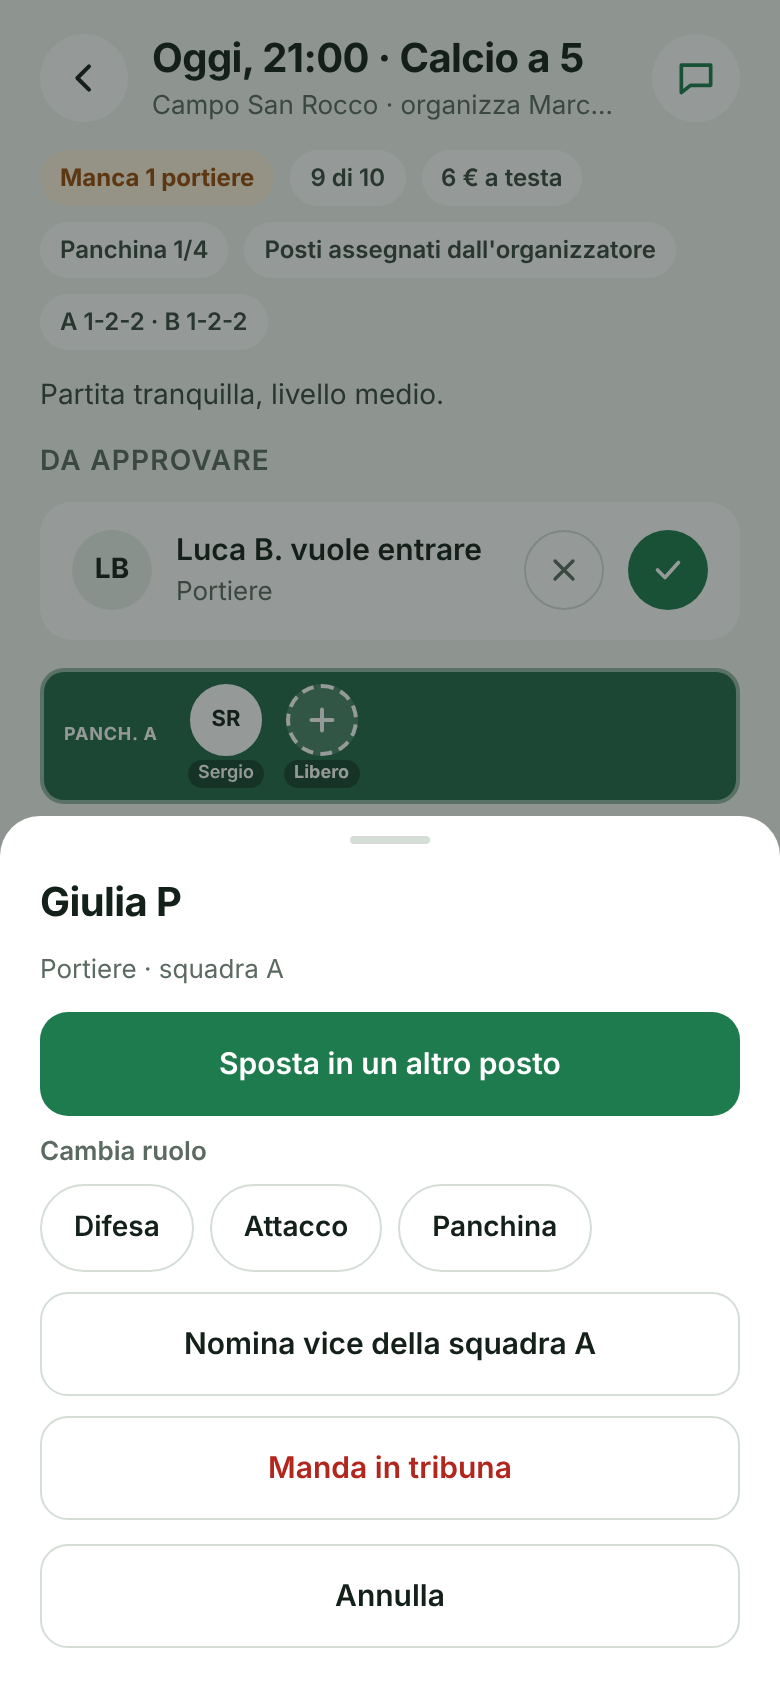
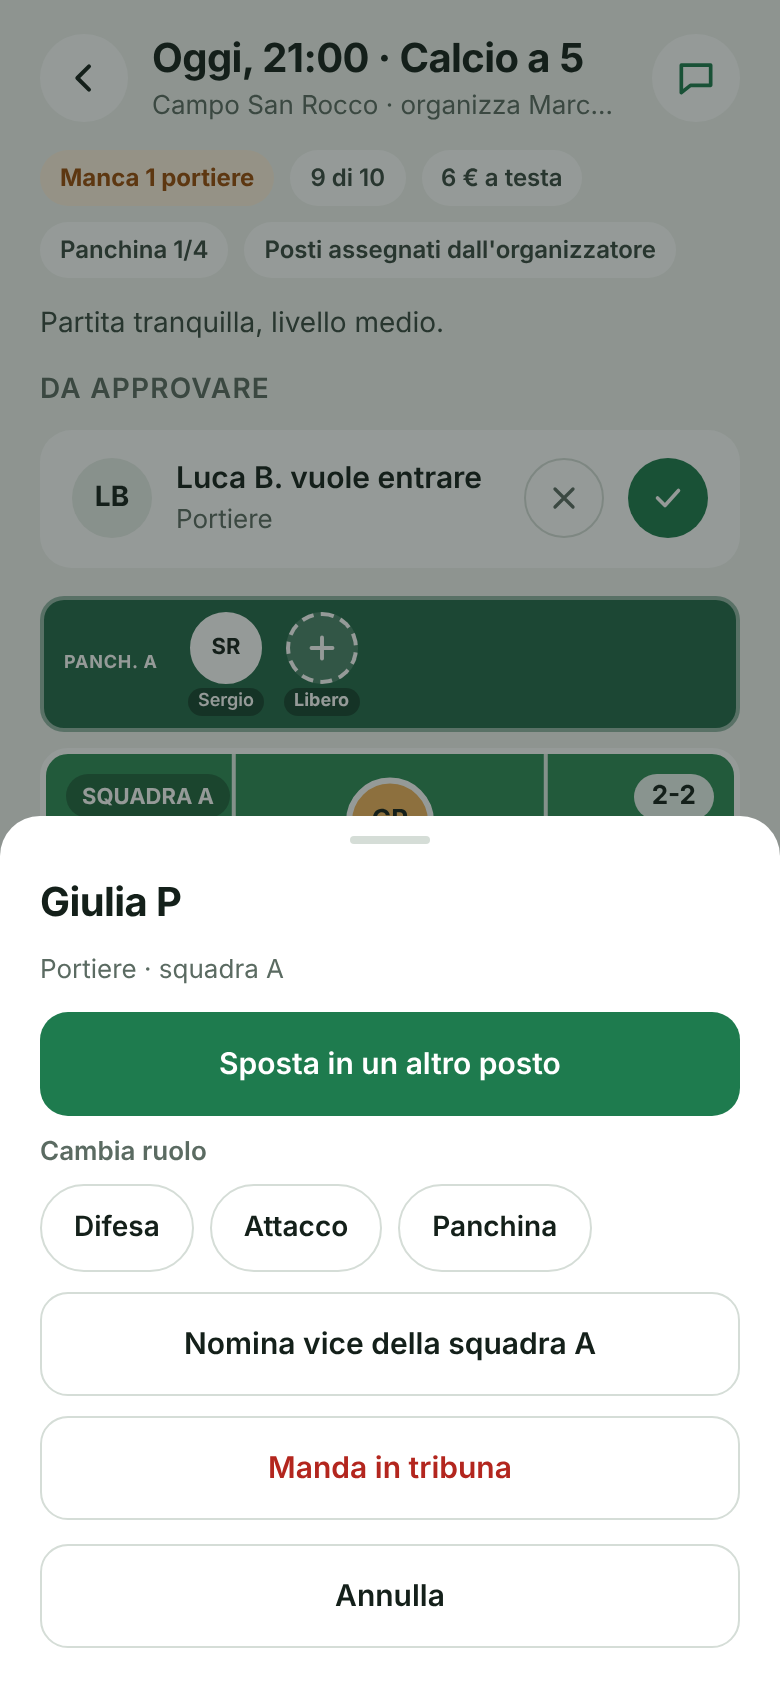
Modulo con tre contatori senza portiere, mostrato sul campo per ogni squadra
Claude-Session: https://claude.ai/code/session_01Djjfb2KNT9qH8Pf34YuUVA

Changed region(s): [[0.0308, 0.1848, 0.9538, 0.4929], [0.4615, 0.1848, 0.5538, 0.2464], [0.7077, 0.2773, 0.7385, 0.3081]]

diff --git a/src/pages/Partita.svelte b/src/pages/Partita.svelte
@@ -5,7 +5,8 @@
   import { auth } from '../lib/auth.svelte.js'
   import { router, indietro, naviga } from '../lib/router.svelte.js'
   import { etichettaDataOra, etichettaFormato, nomeBreve, chipPosti, euro, etichettaRuolo, iniziali, RUOLI } from '../lib/formato.js'
-  import { conta, MODULI, moduloDi } from '../lib/formazione.js'
+  import { conta, contaRuoli, testoModulo, moduloPerDb } from '../lib/formazione.js'
+  import Contatori from '../components/Contatori.svelte'
   import Icona from '../components/Icona.svelte'
   import CampoDisegnato from '../components/CampoDisegnato.svelte'
   import Caricamento from '../components/Caricamento.svelte'
@@ -17,6 +18,8 @@
   let tribuna = $state([])
   let vice = $state([])
   let moduloSquadra = $state('A')
+  let nuovo = $state({ difesa: 0, centro: 0, attacco: 0 })
+  function apriModulo(sq) { moduloSquadra = sq; nuovo = contaRuoli(posizioni, sq); foglio = { tipo: 'modulo' } }
   let inviti = $state([])
   let caricamento = $state(true)
   let errore = $state('')
@@ -138,7 +141,7 @@
   const chiedi = (p, giocatoreId) => esegui('chiedi_di_giocare', { p_posizione: p.id, p_giocatore: giocatoreId }, 'Richiesta inviata: deve accettare.')
   const rispondiInvito = (accetta) => esegui('rispondi_invito', { p_partita: id, p_accetta: accetta }, accetta ? 'Sei in campo!' : 'Resti in tribuna.')
   const sposta = (da, a) => esegui('sposta_giocatore', { p_da: da.id, p_a: a.id }, a.giocatore_id ? 'Posti scambiati.' : 'Giocatore spostato.')
-  const cambiaModulo = (squadra, modulo) => esegui('cambia_modulo', { p_partita: id, p_squadra: squadra, p_modulo: modulo }, `Squadra ${squadra}: modulo ${modulo}.`)
+  const cambiaModulo = (squadra, m) => esegui('cambia_modulo', { p_partita: id, p_squadra: squadra, p_modulo: moduloPerDb(m) }, `Squadra ${squadra}: modulo ${testoModulo(m)}.`)
   const nominaVice = (giocatoreId, squadra, si) => esegui('nomina_vice', { p_partita: id, p_giocatore: giocatoreId, p_squadra: squadra, p_si: si }, si ? `Ora è vice della squadra ${squadra}.` : 'Non è più vice.')
   let copiato = $state(false)
   async function copiaLink() {
@@ -208,7 +211,6 @@
         <span class="chip leggero">{euro(partita.quota)}</span>
         {#if numeri.panchinaTotale}<span class="chip leggero">Panchina {numeri.panchinaTotale - numeri.panchinaLiberi}/{numeri.panchinaTotale}</span>{/if}
         {#if approvazione}<span class="chip leggero">Posti assegnati dall'organizzatore</span>{/if}
-        <span class="chip leggero">A {moduloDi(posizioni, 'A')} · B {moduloDi(posizioni, 'B')}</span>
       </div>
 
       {#if partita.descrizione}
@@ -307,7 +309,7 @@
           <div class="sezione-titolo">{sonoTitolare ? "Sei l'organizzatore" : `Sei vice · squadra ${miaViceSquadra}`}</div>
           <div class="card" style="gap: 8px">
             <div class="sotto">Tocca un posto per cambiarne il ruolo, toglierlo o proporre un cambio a chi lo occupa. Il totale ora è {numeri.totale} posti.</div>
-            <button type="button" class="btn bianco piccolo" onclick={() => { moduloSquadra = sonoTitolare ? 'A' : miaViceSquadra; foglio = { tipo: 'modulo' } }}>Cambia modulo</button>
+            <button type="button" class="btn bianco piccolo" onclick={() => apriModulo(sonoTitolare ? 'A' : miaViceSquadra)}>Cambia modulo</button>
             <button type="button" class="btn bianco piccolo" onclick={() => { ruoloScelto = null; squadraScelta = sonoTitolare ? 'A' : miaViceSquadra; foglio = { tipo: 'aggiungi' } }}>
               <Icona nome="piu" dimensione={18} spessore={2.4} /> Aggiungi un posto
             </button>
@@ -473,17 +475,19 @@
         {/each}
       </Foglio>
     {:else if foglio?.tipo === 'modulo'}
-      <Foglio aperto titolo="Cambia modulo" sotto="Chi è già in campo resta in campo: cambia solo il posto." chiudi={() => (foglio = null)}>
-        <div class="scelte">
-          {#each ['A', 'B'].filter(gestisco) as sq}
-            <button type="button" class="scelta" class:attiva={moduloSquadra === sq} onclick={() => (moduloSquadra = sq)}>Squadra {sq} · {moduloDi(posizioni, sq)}</button>
-          {/each}
-        </div>
-        <div class="scelte">
-          {#each MODULI[partita.formato] ?? [] as m}
-            <button type="button" class="scelta" class:attiva={moduloDi(posizioni, moduloSquadra) === m} disabled={occupato} onclick={() => cambiaModulo(moduloSquadra, m)}>{m}</button>
-          {/each}
-        </div>
+      {@const attuale = contaRuoli(posizioni, moduloSquadra)}
+      {@const totNuovo = nuovo.difesa + nuovo.centro + nuovo.attacco}
+      <Foglio aperto titolo={`Modulo squadra ${moduloSquadra}: ${testoModulo(nuovo)}`} sotto="Il portiere è sempre uno. Chi è già in campo resta in campo: cambia solo il posto." chiudi={() => (foglio = null)}>
+        {#if ['A', 'B'].filter(gestisco).length > 1}
+          <div class="scelte">
+            {#each ['A', 'B'] as sq}
+              <button type="button" class="scelta" class:attiva={moduloSquadra === sq} onclick={() => apriModulo(sq)}>Squadra {sq} · {testoModulo(contaRuoli(posizioni, sq))}</button>
+            {/each}
+          </div>
+        {/if}
+        <Contatori bind:difesa={nuovo.difesa} bind:centro={nuovo.centro} bind:attacco={nuovo.attacco} massimo={10} />
+        <p class="aiuto">{totNuovo} giocatori più il portiere{totNuovo !== partita.formato - 1 ? ` (nel calcio a ${partita.formato} di solito sono ${partita.formato - 1})` : ''}.</p>
+        <button type="button" class="btn" disabled={occupato || totNuovo === 0 || testoModulo(nuovo) === testoModulo(attuale)} onclick={() => cambiaModulo(moduloSquadra, nuovo)}>Applica alla squadra {moduloSquadra}</button>
       </Foglio>
     {:else if foglio?.tipo === 'tribuna-membro'}
       {@const d = foglio.persona}

diff --git a/src/pages/NuovaPartita.svelte b/src/pages/NuovaPartita.svelte
@@ -5,7 +5,8 @@
   import { naviga } from '../lib/router.svelte.js'
   import { RUOLI, perInputDataOra } from '../lib/formato.js'
   import Intestazione from '../components/Intestazione.svelte'
-  import { MODULI, ruoliDaModulo } from '../lib/formazione.js'
+  import { PREDEFINITI, testoModulo, moduloPerDb } from '../lib/formazione.js'
+  import Contatori from '../components/Contatori.svelte'
 
   let { id } = $props()
   let campo = $state(null)
@@ -18,9 +19,17 @@
   let giocoAnchio = $state(true)
   let modalita = $state('libera')
   let panchina = $state(0)
-  let modulo = $state('1-2-2')
-  const ruoliModulo = $derived(Object.entries(ruoliDaModulo(modulo)).filter(([, n]) => n > 0).map(([r]) => r))
-  $effect(() => { if (!MODULI[formato].includes(modulo)) modulo = MODULI[formato][0] })
+  let difesa = $state(2), centro = $state(0), attacco = $state(2)
+  let formatoPrecedente = 5
+  $effect(() => {
+    if (formato !== formatoPrecedente) {
+      formatoPrecedente = formato
+      ;({ difesa, centro, attacco } = PREDEFINITI[formato])
+    }
+  })
+  const movimento = $derived(formato - 1)
+  const mancano = $derived(movimento - (difesa + centro + attacco))
+  const ruoliModulo = $derived(['portiere', ...['difesa', 'centro', 'attacco'].filter((r) => ({ difesa, centro, attacco })[r] > 0)])
   $effect(() => { if (!ruoliModulo.includes(ruolo)) ruolo = ruoliModulo.includes('attacco') ? 'attacco' : ruoliModulo[ruoliModulo.length - 1] })
   let errore = $state('')
   let occupato = $state(false)
@@ -41,6 +50,7 @@
     errore = ''
     const quando = new Date(dataOra)
     if (isNaN(quando) || quando < new Date()) { errore = 'Scegli una data e un\'ora future.'; return }
+    if (mancano !== 0) { errore = `Completa il modulo: servono ${movimento} giocatori più il portiere.`; return }
     occupato = true
     const { data, error } = await supabase.rpc('crea_partita', {
       p_campo_id: id,
@@ -53,7 +63,7 @@
       p_ruolo: giocoAnchio ? ruolo : null,
       p_modalita: modalita,
       p_panchina: panchina,
-      p_modulo: modulo
+      p_modulo: moduloPerDb({ difesa, centro, attacco })
     })
     occupato = false
     if (error) { errore = error.message; return }
@@ -74,13 +84,11 @@
       <p class="aiuto">{formato * 2} posti in tutto, {formato} per squadra.</p>
     </div>
     <div class="campo-form">
-      <span class="aiuto" style="font-weight:600">Modulo (portiere-difesa-centro-attacco)</span>
-      <div class="scelte">
-        {#each MODULI[formato] as m}
-          <button type="button" class="scelta" class:attiva={modulo === m} onclick={() => (modulo = m)}>{m}</button>
-        {/each}
-      </div>
-      <p class="aiuto">Vale per entrambe le squadre; dopo lo puoi cambiare per ciascuna.</p>
+      <span class="aiuto" style="font-weight:600">Modulo: {testoModulo({ difesa, centro, attacco })} <span style="font-weight:400">(più il portiere)</span></span>
+      <Contatori bind:difesa bind:centro bind:attacco massimo={movimento} />
+      <p class="aiuto" style={mancano ? 'color: var(--avviso-testo)' : ''}>{mancano > 0
+        ? `Mancano ${mancano} ${mancano === 1 ? 'giocatore' : 'giocatori'} per arrivare a ${movimento} più il portiere.`
+        : `${movimento} giocatori più il portiere, per entrambe le squadre. Dopo puoi cambiarlo per ciascuna.`}</p>
     </div>
     <div class="campo-form">
       <span class="aiuto" style="font-weight:600">Chi sceglie il posto?</span>

diff --git a/src/components/Contatori.svelte b/src/components/Contatori.svelte
@@ -1,0 +1,37 @@
+<script>
+  // Tre contatori (difesa, centrocampo, attacco) con + e −; il portiere è sempre 1 e non si conta.
+  let { difesa = $bindable(0), centro = $bindable(0), attacco = $bindable(0), massimo = 10 } = $props()
+  const righe = [['difesa', 'Difesa'], ['centro', 'Centrocampo'], ['attacco', 'Attacco']]
+  const valori = $derived({ difesa, centro, attacco })
+  const totale = $derived(difesa + centro + attacco)
+  function cambia(chiave, delta) {
+    const nuovo = Math.max(0, valori[chiave] + delta)
+    if (delta > 0 && totale >= massimo) return
+    if (chiave === 'difesa') difesa = nuovo
+    else if (chiave === 'centro') centro = nuovo
+    else attacco = nuovo
+  }
+</script>
+
+<div class="contatori">
+  {#each righe as [chiave, testo]}
+    <div class="riga">
+      <span class="nome">{testo}</span>
+      <button type="button" class="tasto" aria-label={`Togli un giocatore in ${testo}`} disabled={valori[chiave] === 0} onclick={() => cambia(chiave, -1)}>−</button>
+      <span class="numero" aria-live="polite">{valori[chiave]}</span>
+      <button type="button" class="tasto" aria-label={`Aggiungi un giocatore in ${testo}`} disabled={totale >= massimo} onclick={() => cambia(chiave, 1)}>+</button>
+    </div>
+  {/each}
+</div>
+
+<style>
+  .contatori { display: flex; flex-direction: column; gap: 8px; }
+  .riga { display: flex; align-items: center; gap: 10px; background: var(--superficie); border: 1px solid var(--bordo); border-radius: 14px; padding: 6px 8px 6px 14px; }
+  .nome { flex: 1 1 0; font-size: 15px; font-weight: 600; }
+  .numero { width: 28px; text-align: center; font-family: var(--font-titoli); font-size: 20px; font-weight: 700; }
+  .tasto {
+    width: 44px; height: 44px; border-radius: 22px; border: 1px solid var(--bordo); background: var(--sfondo);
+    font-size: 22px; font-weight: 600; color: var(--verde); display: flex; align-items: center; justify-content: center; padding: 0;
+  }
+  .tasto:disabled { opacity: .35; }
+</style>

diff --git a/src/lib/formazione.js b/src/lib/formazione.js
@@ -40,24 +40,26 @@ export function conta(posizioni) {
   }
 }
 
-// Moduli proposti per formato: il primo numero è sempre il portiere.
-export const MODULI = {
-  5: ['1-2-2', '1-1-3', '1-1-2-1', '1-2-1-1', '1-3-1'],
-  8: ['1-3-3-1', '1-2-3-2', '1-3-2-2', '1-2-4-1', '1-3-1-3'],
-  11: ['1-4-4-2', '1-4-3-3', '1-3-5-2', '1-5-3-2', '1-3-4-3', '1-4-5-1']
+// Modulo senza portiere (è sempre 1): "2-2", "1-2-1", "3-3-1"...
+export const PREDEFINITI = { 5: { difesa: 2, centro: 0, attacco: 2 }, 8: { difesa: 3, centro: 3, attacco: 1 }, 11: { difesa: 4, centro: 4, attacco: 2 } }
+
+export function testoModulo({ difesa, centro, attacco }) {
+  return centro ? `${difesa}-${centro}-${attacco}` : `${difesa}-${attacco}`
 }
 
-/** "1-1-2-1" → { portiere: 1, difesa: 1, centro: 2, attacco: 1 } */
-export function ruoliDaModulo(modulo) {
-  const n = modulo.split('-').map(Number)
-  return n.length === 4
-    ? { portiere: n[0], difesa: n[1], centro: n[2], attacco: n[3] }
-    : { portiere: n[0], difesa: n[1], centro: 0, attacco: n[2] }
+/** Stringa per il database: sempre con il portiere davanti, es. "1-2-0-2". */
+export function moduloPerDb({ difesa, centro, attacco }) {
+  return `1-${difesa}-${centro}-${attacco}`
 }
 
-/** Modulo attuale di una squadra letto dai posti in campo, es. "1-2-2" o "1-1-2-1". */
-export function moduloDi(posizioni, squadra) {
-  const c = { portiere: 0, difesa: 0, centro: 0, attacco: 0 }
+/** Conteggio dei ruoli in campo di una squadra (portiere escluso). */
+export function contaRuoli(posizioni, squadra) {
+  const c = { difesa: 0, centro: 0, attacco: 0 }
   for (const p of posizioni) if (p.squadra === squadra && c[p.ruolo] !== undefined) c[p.ruolo]++
-  return c.centro ? `${c.portiere}-${c.difesa}-${c.centro}-${c.attacco}` : `${c.portiere}-${c.difesa}-${c.attacco}`
+  return c
+}
+
+/** Modulo attuale di una squadra, es. "2-2" o "1-2-1". */
+export function moduloDi(posizioni, squadra) {
+  return testoModulo(contaRuoli(posizioni, squadra))
 }

diff --git a/src/components/CampoDisegnato.svelte b/src/components/CampoDisegnato.svelte
@@ -3,7 +3,7 @@
   // Squadra A in alto, squadra B in basso. Ogni posto è toccabile se c'è `alClick`.
   import Icona from './Icona.svelte'
   import { etichettaRuolo, iniziali } from '../lib/formato.js'
-  import { disponi } from '../lib/formazione.js'
+  import { disponi, moduloDi } from '../lib/formazione.js'
   let { posizioni = [], mioId = null, alClick = null, evidenzia = null } = $props()
 
   const coordinate = $derived(disponi(posizioni))
@@ -74,6 +74,8 @@
   <div class="area basso"></div>
   <div class="nome-squadra alto">SQUADRA A</div>
   <div class="nome-squadra basso">SQUADRA B</div>
+  <div class="modulo alto" aria-label={`Modulo squadra A ${moduloDi(posizioni, 'A')}`}>{moduloDi(posizioni, 'A')}</div>
+  <div class="modulo basso" aria-label={`Modulo squadra B ${moduloDi(posizioni, 'B')}`}>{moduloDi(posizioni, 'B')}</div>
 
   {#each inCampo as p (p.id)}
     <div class="posto" style={stile(p)}>
@@ -104,6 +106,8 @@
   .area.basso { bottom: 0; border-bottom: none; }
   .nome-squadra { position: absolute; left: 10px; font-size: 11px; font-weight: 700; color: #fff; background: rgba(0,0,0,0.28); padding: 4px 8px; border-radius: 999px; pointer-events: none; }
   .nome-squadra.alto { top: 10px; } .nome-squadra.basso { bottom: 10px; }
+  .modulo { position: absolute; right: 10px; font-family: var(--font-titoli); font-size: 13px; font-weight: 700; color: var(--testo); background: rgba(255,255,255,0.9); padding: 3px 9px; border-radius: 999px; pointer-events: none; }
+  .modulo.alto { top: 10px; } .modulo.basso { bottom: 10px; }
   .posto { position: absolute; width: 64px; transform: translate(-50%, -50%); display: flex; flex-direction: column; align-items: center; gap: 3px; transition: left .25s, top .25s; }
   .pallino-posto {
     width: 44px; height: 44px; border-radius: 22px; background: #fff; color: var(--testo);

diff --git a/CLAUDE.md b/CLAUDE.md
@@ -92,3 +92,4 @@ RLS: tutti leggono campi e partite aperte; messaggi leggibili/scrivibili solo da
 - 2026-11-11: Tappa 2: tutte le azioni sul campo passano da funzioni SQL `security definer` (controlli e messaggi di sistema lato DB, niente update diretti dal client). Posizioni disposte dal client in righe per ruolo (`src/lib/formazione.js`); x/y nel DB restano indicativi. Amministratore = `profili.admin`, assegnato al primo iscritto.
 - 2026-11-11: **Tribuna** (tabella `tribuna`: segue la partita e la chat senza giocare), **modalità** `partite.modalita` = `libera` (ognuno si siede) o `approvazione` (assegna l'organizzatore: candidature o "chiedi di giocare" con invito da accettare), **panchine** come posizioni con ruolo `panchina` (`partite.panchina` riserve per squadra), mostrate a lato del campo; non contano per lo stato "completa". La lista amici vera arriverà con la tappa 4.
 - 2026-11-11: **Modulo** scelto alla creazione (`p_modulo`, es. 1-2-2 / 1-1-3 / 1-1-2-1; elenco in `src/lib/formazione.js` → MODULI) e cambiabile per squadra con `cambia_modulo` (chi è in campo resta in campo). **Sposta/scambia** giocatori con `sposta_giocatore`. **Vice** per squadra (tabella `vice`, colonna `squadra`): gestisce modulo e posizioni solo della sua squadra (`puo_gestire_squadra`); l'organizzatore gestisce entrambe e nomina i vice. Con modalità `approvazione` il cambio di ruolo è diretto, senza conferma. Panchine: a lato del campo su schermi larghi, sopra/sotto in orizzontale sotto i 480px. Bottone "copia link" nella partita.
+- 2026-11-11: Modulo **senza portiere** (sempre 1) e scelto con **tre contatori** Difesa/Centrocampo/Attacco (`src/components/Contatori.svelte`), niente elenco di moduli fissi. Il modulo si mostra sul campo: in alto a destra per la squadra A, in basso a destra per la B. Nel DB resta la forma `1-d-c-a` (`moduloPerDb`), nei messaggi `testo_modulo`.

diff --git a/docs/PUNTO.md b/docs/PUNTO.md
@@ -48,6 +48,7 @@ Aggiornato: 11 novembre 2026, sera: tutto provato dal telefono, resta solo il ri
 6b. [x] **Tappa 2 pubblicata su www.nemanca1.com** (unita su `main` l'11/11 sera)
 6c. [x] **Tribuna, "decido io chi gioca", panchine** (richiesto l'11/11, ramo `tribuna`, scritto e provato). Migrazione 0003 **applicata da Claude** l'11/11 sera tramite token Supabase. Da unire su `main` dopo la prova di Flavio
 6d. [x] **Modulo, sposta/scambia, vice di squadra, cambio ruolo diretto con "decido io", panchina sul cellulare, copia link** (richiesti l'11/11 sera): migrazioni 0004-0006 applicate da Claude, in anteprima su anteprima.nemanca1.pages.dev
+6e. [x] **Modulo con tre contatori, senza portiere, mostrato sul campo** (richiesto l'11/11 sera), in anteprima
 7. [x] **Pagina amministratore** `/admin` (ramo `tappa-2`): numeri, ultimi iscritti con email e badge "nuovi", prossime partite con annulla, campi con verifica/elimina. Accesso dal Profilo, solo per `profili.admin` (il primo iscritto, Flavio)
 8. [ ] **Avviso a Flavio a ogni nuovo iscritto** (richiesto l'11/11). Già fatto: badge "nuovi" nella pagina amministratore. Manca: email automatica (serve mettere la chiave Resend nei segreti di Supabase) e (trigger DB → Resend), poi come notifica push con OneSignal (Tappa 3) e lista "ultimi iscritti" nella pagina amministratore
 
